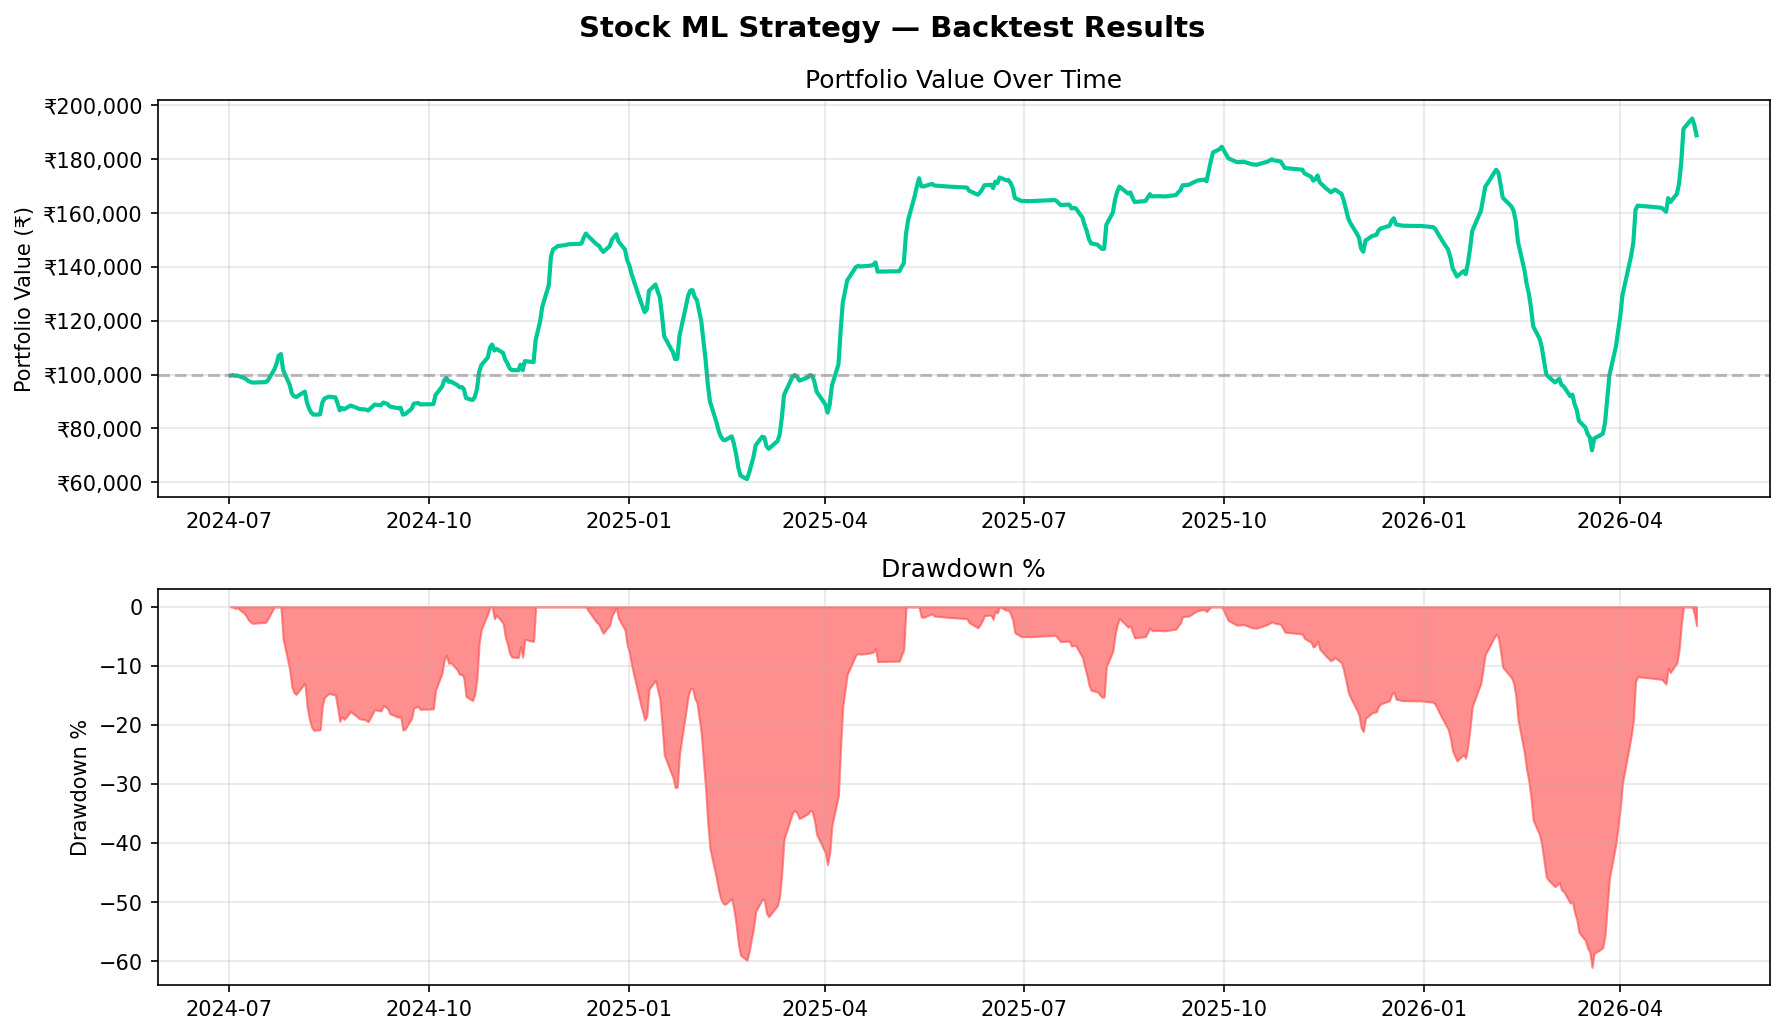
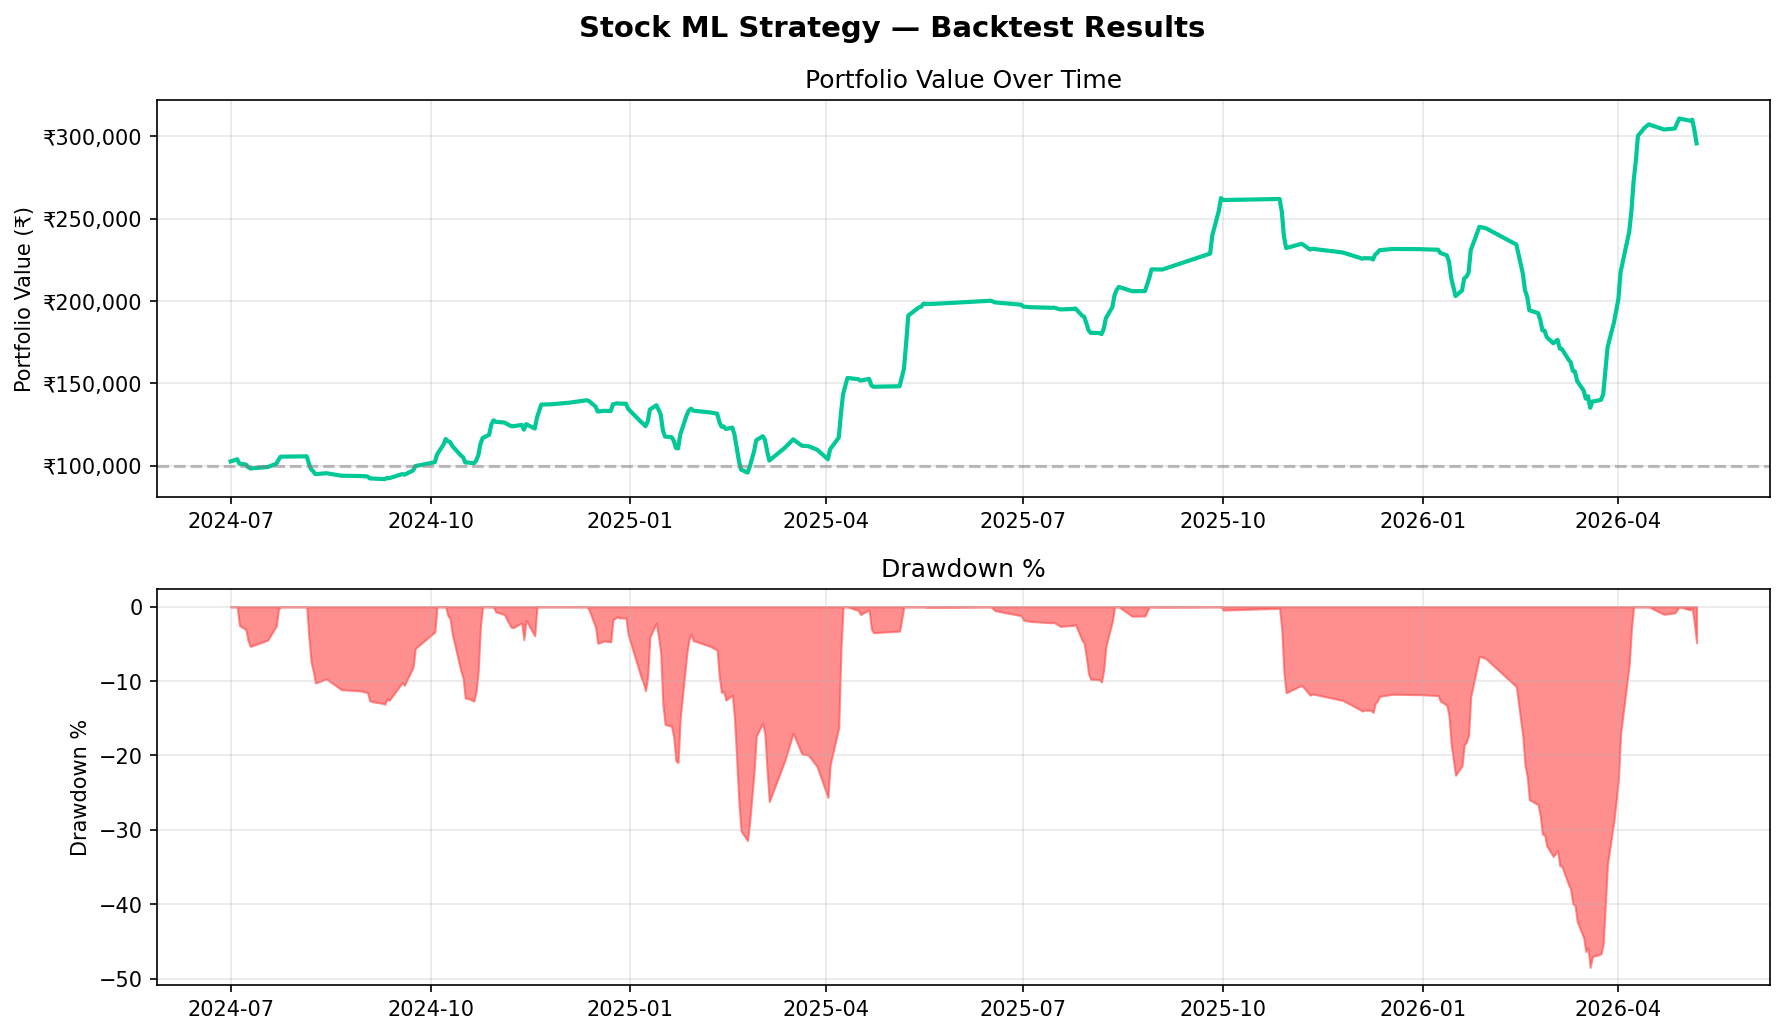
Train model with Nifty market regime features

diff --git a/step2_build_features.py b/step2_build_features.py
@@ -152,6 +152,11 @@ for i, f in enumerate(csv_files):
                 how='left'
             )
 
+        # Relative strength vs Nifty
+        if not nifty_features.empty:
+            df_feat['rs_ret_5d']  = df_feat['ret_5d']  - df_feat['nifty_ret_5d']
+            df_feat['rs_ret_20d'] = df_feat['ret_20d'] - df_feat['nifty_ret_20d']
+
         # Drop rows where we don't have enough history
         feature_cols = [c for c in df_feat.columns if c not in
                         ['ticker','target','future_ret_5d','Open','High','Low','Close','Volume']]

diff --git a/step3_train_model.py b/step3_train_model.py
@@ -32,7 +32,8 @@ FEATURE_COLS = [
     'volume_ratio','volume_trend',
     'bb_position',
     'up_days_5','up_days_10',
-    'gap'
+    'gap',
+    'nifty_ret_5d','nifty_ret_20d','nifty_above_ma50'
 ]
 
 # ── Time-based train/test split ──────────────────────────────────────────
